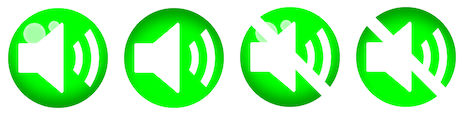
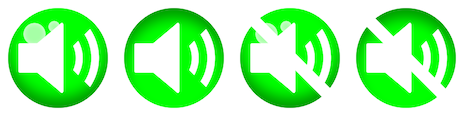
add more sounds, fix mute button, fix level 3 question

diff --git a/js/scenes/ff/FFGame.js b/js/scenes/ff/FFGame.js
@@ -138,10 +138,7 @@ var FFGameState = {
         this.add.tween(this.resultsNextButton.scale).to({ x: 0.9, y: 0.9 }, 600, "Linear", true, 0, -1, true);
 
         // Mute button
-        var indexAB = AudioManager.indexAB;
-        var indexC = AudioManager.indexC;
-        this.muteButton = this.add.button(0.9 * WIDTH, 0.01 * HEIGHT, "button_sound", muteButtonActions.onClick, this, indexAB, indexAB, indexC);
-        this.muteButton.scale.setTo(0.75);
+        createMuteButton(this);
     },
     update: function() {
     },
@@ -154,6 +151,8 @@ var FFGameState = {
         }
     },
     startQuestion: function() {
+        AudioManager.playSound("bloop_sfx", this);
+
         this.setOptionsClickable(false);
         this.questionBoxGroup.visible = true;
         this.add.tween(this.questionBoxGroup.scale).from({ x: 0.5, y: 0.5 }, 500, "Elastic", true);
@@ -166,6 +165,8 @@ var FFGameState = {
         this.questionImageSprite.loadTexture(childData.questionImage);
     },
     startResult: function(fixIt) {
+        AudioManager.playSound("bloop_sfx", this);
+
         this.questionBoxGroup.visible = false;
         
         var option = FFGame.options[this.currentQuestionId];
@@ -192,6 +193,12 @@ var FFGameState = {
         // This will only change the option if its currently wrong and you fix it
         // Maybe change it to also include if its currently right and you choose wrong
         if(correct) {
+            // SFX
+            AudioManager.playSound("correct_sfx", this);
+
+            // Increase Score
+            FFGame.score++;
+
             if(option.wrong) {
                 var spriteData = data.correct.sprite;
                 sprite.clickable.loadTexture(spriteData.name);
@@ -203,20 +210,27 @@ var FFGameState = {
                     sprite.extras[i].scale.setTo(spriteData.extras[i].scale.x, spriteData.extras[i].scale.y);
                 }
             }
-
-            FFGame.score++;
+        }
+        else {
+            // SFX
+            AudioManager.playSound("wrong_sfx", this);
         }
     },
     closeResult: function() {
+        AudioManager.playSound("bloop_sfx", this);
+
         this.resultsBoxGroup.visible = false;
         this.setOptionsClickable(true);
 
         FFGame.completed++;
         if(FFGame.completed >= FFGame.options.length) {
-            this.finishedButton = this.add.button(0.9 * WIDTH, 0.85 * HEIGHT, "button_play", function(){ this.state.start("FFScoreState"); }, this, 0, 0, 1);
+            var onClick = function() {                
+                AudioManager.playSound("bloop_sfx", this);
+                this.state.start("FFScoreState");
+            };
+            this.finishedButton = this.add.button(0.9 * WIDTH, 0.85 * HEIGHT, "button_play", onClick, this, 0, 0, 1);
             this.finishedButton.anchor.setTo(0.5, 0.5);
             this.add.tween(this.finishedButton.scale).to({ x: 1.1, y: 1.1 }, 600, "Linear", true, 0, -1, true);
-
         }
     }
 };

diff --git a/js/GameData.js b/js/GameData.js
@@ -115,9 +115,9 @@ var TextData = {
     ppRain: "OK, LET'S SEE WHAT\nHAPPENS WHEN IT\nRAINS!",
     ffIntro: [
         "IN THIS GAME, YOU WILL\nSEE A NEIGHBORHOOD\nWITH PEOPLE DOING\nDIFFERENT ACTIVITIES.",
-        "IF THE ACTIVITY KEEPS\nSTORMWATER CLEAN,\nCLICK ON IT AND\nCHOOSE 'IT'S OK'.",
-        "IF THE ACTIVITY MAKES\nSTORMWATER DIRTY,\nTHIS IS CALLED POLLUTION.\nCLICK ON IT AND\nCHOOSE 'FIX IT'.",
-        "SEE HOW WELL YOU\nCAN DO BEFORE THE\nTIME RUNS OUT!"
+        "IF THE ACTIVITY KEEPS\nSTORMWATER CLEAN,\nCLICK ON IT AND\nCHOOSE \"IT'S OK\".",
+        "IF THE ACTIVITY MAKES\nSTORMWATER DIRTY,\nTHIS IS CALLED POLLUTION.\nCLICK ON IT AND\nCHOOSE \"FIX IT\".",
+        "SEE HOW WELL YOU\nCAN DO!"// BEFORE THE\nTIME RUNS OUT!"
     ]
 };
 
@@ -698,7 +698,7 @@ var PPGameData = {
                         name: "pp_3_2b",
                         correct: false,
                         wetlands: {
-                            overlay: 1,
+                            overlay: 5,
                             lilypad: true,
                             aliveFish: false,
                             deadFish: true,
@@ -1153,7 +1153,13 @@ var FFGameData = {
                     name: "ff_sprinkler_fixed",
                     position: { x: 0.395, y: 0.75 },
                     scale: { x: 1.0, y: 1.0 },
-                    extras: []
+                    extras: [
+                        {
+                            name: "ff_sprinkler_water",
+                            position: { x: 0.505, y: 0.842 },
+                            scale: { x: 0.0, y: 0.0 }
+                        }
+                    ]
 
                 },
                 questionTitle: "SPRINKLERS ARE\nWATERING THE GRASS",

diff --git a/js/scenes/pp/PPResult.js b/js/scenes/pp/PPResult.js
@@ -145,6 +145,12 @@ var PPResultState = {
                 this.wetlandsOverlayOilSprite = this.add.sprite(wetlandsX, wetlandsY, "pp_wetlands_overlay_oil");
                 this.wetlandsOverlayOilSprite.anchor.setTo(0.5, 0.5);
                 break;
+            case 5: // Overlay - Mud & Oil - Special
+                this.wetlandsOverlayMudSprite = this.add.sprite(wetlandsX, wetlandsY, "pp_wetlands_overlay_mud");
+                this.wetlandsOverlayMudSprite.anchor.setTo(0.5, 0.5);
+                this.wetlandsOverlayOilSprite = this.add.sprite(wetlandsX, wetlandsY, "pp_wetlands_overlay_oil");
+                this.wetlandsOverlayOilSprite.anchor.setTo(0.5, 0.5);
+                break;
         }   
     
         // Wetlands Foreground
@@ -198,17 +204,18 @@ var PPResultState = {
         if (correct) {
             AudioManager.playSound("correct_sfx", this);
         }
+        else {
+            AudioManager.playSound("wrong_sfx", this);
+        }
 
         // Mute button
-        var indexAB = AudioManager.indexAB;
-        var indexC = AudioManager.indexC;
-        this.muteButton = this.add.button(0.9 * WIDTH, 0.01 * HEIGHT, "button_sound", muteButtonActions.onClick, this, indexAB, indexAB, indexC);
-        this.muteButton.scale.setTo(0.75);
+        createMuteButton(this);
     },
     update: function() {
     },
     nextButtonActions: {
         onClick: function() {
+            AudioManager.playSound("bloop_sfx", this);
             if(PPGame.questionsCompleted < 4) {
                 PPGame.questionId = PPGame.questionOrder[++PPGame.questionsCompleted];
                 this.state.start("PPQuestionState");

diff --git a/js/scenes/pp/PPLevelSelect.js b/js/scenes/pp/PPLevelSelect.js
@@ -43,10 +43,7 @@ var PPLevelSelectState = {
         this.add.tween(this.level3Btn.scale).to({ x: 0.9, y: 0.9 }, 600, "Linear", true).yoyo(true, 0).loop(true);
 
         // Mute button
-        var indexAB = AudioManager.indexAB;
-        var indexC = AudioManager.indexC;
-        this.muteButton = this.add.button(0.9 * WIDTH, 0.01 * HEIGHT, "button_sound", muteButtonActions.onClick, this, indexAB, indexAB, indexC);
-        this.muteButton.scale.setTo(0.75);
+        createMuteButton(this);
 
         // Start Animation
         this.animationSpeed = 500;
@@ -63,14 +60,17 @@ var PPLevelSelectState = {
     buttonActions: {
         onClickOne: function() {
             PPGame.levelId = 0;
+            AudioManager.playSound("bloop_sfx", this);
             this.state.start("PPQuestionState");
         },
         onClickTwo: function() {
             PPGame.levelId = 1;
+            AudioManager.playSound("bloop_sfx", this);
             this.state.start("PPQuestionState");
         },
         onClickThree: function() {
             PPGame.levelId = 2;
+            AudioManager.playSound("bloop_sfx", this);
             this.state.start("PPQuestionState");
         }
     },

diff --git a/js/scenes/pp/PPScore.js b/js/scenes/pp/PPScore.js
@@ -42,10 +42,7 @@ var PPScoreState = {
         this.add.tween(this.replayButton.scale).to({ x: 1.1, y: 1.1 }, 600, "Linear", true).yoyo(true, 0).loop(true);
 
         // Mute button
-        var indexAB = AudioManager.indexAB;
-        var indexC = AudioManager.indexC;
-        this.muteButton = this.add.button(0.9 * WIDTH, 0.01 * HEIGHT, "button_sound", muteButtonActions.onClick, this, indexAB, indexAB, indexC);
-        this.muteButton.scale.setTo(0.75);
+        createMuteButton(this);
 
         // Start Animation
         this.animationSpeed = 500;
@@ -64,11 +61,13 @@ var PPScoreState = {
     },
     homeButtonActions: {
         onClick: function() {
+            AudioManager.playSound("bloop_sfx", this);
             this.state.start("TitleState");
         }
     },    
     replayButtonActions: {
         onClick: function() {
+            AudioManager.playSound("bloop_sfx", this);
             this.state.start("PPLevelSelectState");
         }
     }

diff --git a/js/scenes/ChooseGame.js b/js/scenes/ChooseGame.js
@@ -34,10 +34,7 @@ var ChooseGameState = {
         this.add.tween(this.ppButton.scale).to({ x: 0.9, y: 0.9 }, 600, "Linear", true).yoyo(true, 0).loop(true);
 
         // Mute button
-        var indexAB = AudioManager.indexAB;
-        var indexC = AudioManager.indexC;
-        this.muteButton = this.add.button(0.9 * WIDTH, 0.01 * HEIGHT, "button_sound", muteButtonActions.onClick, this, indexAB, indexAB, indexC);
-        this.muteButton.scale.setTo(0.75);
+        createMuteButton(this);
 
         // Start Animation        
         this.animationSpeed = 500;
@@ -50,11 +47,13 @@ var ChooseGameState = {
     },
     ffButtonActions: {
         onClick: function() {
+            AudioManager.playSound("bloop_sfx", this);
             this.state.start("FFIntroState");
         }
     },
     ppButtonActions: {
         onClick: function() {
+            AudioManager.playSound("bloop_sfx", this);
             this.state.start("PPIntroState");
         }
     }

diff --git a/js/scenes/pp/PPQuestion.js b/js/scenes/pp/PPQuestion.js
@@ -29,16 +29,14 @@ var PPQuestionState = {
         this.questionImageSprite = this.add.sprite(0, 0, question.name);
 
         // Mute button
-        var indexAB = AudioManager.indexAB;
-        var indexC = AudioManager.indexC;
-        this.muteButton = this.add.button(0.9 * WIDTH, 0.01 * HEIGHT, "button_sound", muteButtonActions.onClick, this, indexAB, indexAB, indexC);
-        this.muteButton.scale.setTo(0.75);
+        createMuteButton(this);
 
         // Choice Buttons
         var buttonWidth = WIDTH * (options.length == 3 ? 0.33 : 0.42);
         for(var i=0; i<randomOptions.length; ++i) {
             var onClick = function(ref) {
                 PPGame.chosenOptionId = ref.optionIndex;
+                AudioManager.playSound("bloop_sfx", this);
                 this.state.start("PPRainState");
             };
             var xOffset = 0.5 * WIDTH - (buttonWidth * (randomOptions.length - 1)) * 0.5 + buttonWidth * i;

diff --git a/js/scenes/ff/FFScore.js b/js/scenes/ff/FFScore.js
@@ -41,6 +41,9 @@ var FFScoreState = {
         this.replayButton.anchor.setTo(0.5, 0.5);
         this.add.tween(this.replayButton.scale).to({ x: 1.1, y: 1.1 }, 600, "Linear", true).yoyo(true, 0).loop(true);
 
+        // Mute button
+        createMuteButton(this);
+
         // Start Animation
         this.animationSpeed = 500;
 
@@ -49,17 +52,22 @@ var FFScoreState = {
 
         // Reset PPGame
         FFGame.reset();
+
+        // Audio
+        AudioManager.playSong("results_music", this);
     },
     update: function() {
         updateCloudSprites(this);
     },
     homeButtonActions: {
         onClick: function() {
+            AudioManager.playSound("bloop_sfx", this);
             this.state.start("TitleState");
         }
     },    
     replayButtonActions: {
         onClick: function() {
+            AudioManager.playSound("bloop_sfx", this);
             this.state.start("FFGameState");
         }
     }

diff --git a/js/AudioManager.js b/js/AudioManager.js
@@ -26,7 +26,7 @@ var AudioManager = {
         // Make sure to not replay same song
         if (!this.currentTitle || this.currentTitle != title) {
             this.currentTitle = title;
-            Game.sound.stopAll();
+            if (this.currentSong != null) this.currentSong.stop();
             this.currentSong = state.add.audio(title, 0.3);
             this.currentSong.loopFull();
         }
@@ -43,4 +43,11 @@ var muteButtonActions =  {
     onClick: function() {
         AudioManager.toggleMusic(this);
     }
+}
+
+function createMuteButton(scene) {
+    var indexAB = AudioManager.indexAB;
+    var indexC = AudioManager.indexC;
+    scene.muteButton = scene.add.button(0.892 * WIDTH, 0.02 * HEIGHT, "button_sound", muteButtonActions.onClick, scene, indexAB, indexAB, indexC);
+    scene.muteButton.scale.setTo(0.75);
 }

diff --git a/js/scenes/Title.js b/js/scenes/Title.js
@@ -24,10 +24,7 @@ var TitleState = {
         this.add.tween(this.playButton.scale).to({ x: 1.1, y: 1.1 }, 600, "Linear", true).yoyo(true, 0).loop(true);
 
         // Mute button
-        var indexAB = AudioManager.indexAB;
-        var indexC = AudioManager.indexC;
-        this.muteButton = this.add.button(0.9 * WIDTH, 0.01 * HEIGHT, "button_sound", muteButtonActions.onClick, this, indexAB, indexAB, indexC);
-        this.muteButton.scale.setTo(0.75);
+        createMuteButton(this);
 
         // Audio
         AudioManager.playSong("title_music", this);
@@ -37,6 +34,7 @@ var TitleState = {
     },
     playButtonActions: {
         onClick: function() {
+            AudioManager.playSound("bloop_sfx", this);
             this.state.start("IntroState");
         }
     },

diff --git a/js/scenes/pp/PPRain.js b/js/scenes/pp/PPRain.js
@@ -52,10 +52,7 @@ var PPRainState = {
         this.add.tween(this.nextButton.scale).to({ x: 1.1, y: 1.1 }, 600, "Linear", true).yoyo(true, 0).loop(true);
 
         // Mute button
-        var indexAB = AudioManager.indexAB;
-        var indexC = AudioManager.indexC;
-        this.muteButton = this.add.button(0.9 * WIDTH, 0.01 * HEIGHT, "button_sound", muteButtonActions.onClick, this, indexAB, indexAB, indexC);
-        this.muteButton.scale.setTo(0.75);
+        createMuteButton(this);
 
         // Start Animation
         this.nextDelay = 1000;
@@ -73,6 +70,7 @@ var PPRainState = {
     },
     nextButtonActions: {
         onClick: function() {
+            AudioManager.playSound("bloop_sfx", this);
             this.state.start("PPResultState");
         }
     }

diff --git a/js/scenes/ff/FFIntro.js b/js/scenes/ff/FFIntro.js
@@ -64,10 +64,7 @@ var FFIntroState = {
         this.add.tween(this.nextButton.scale).to({ x: 1.1, y: 1.1 }, 600, "Linear", true).yoyo(true, 0).loop(true);
 
         // Mute button
-        var indexAB = AudioManager.indexAB;
-        var indexC = AudioManager.indexC;
-        this.muteButton = this.add.button(0.9 * WIDTH, 0.01 * HEIGHT, "button_sound", muteButtonActions.onClick, this, indexAB, indexAB, indexC);
-        this.muteButton.scale.setTo(0.75);
+        createMuteButton(this);
 
         // Start Animation
         this.nextDelay = 1000;
@@ -153,6 +150,7 @@ var FFIntroState = {
     },
     nextButtonActions: {
         onClick: function() {
+            AudioManager.playSound("bloop_sfx", this);
             this.nextSubScene();
         }
     }
